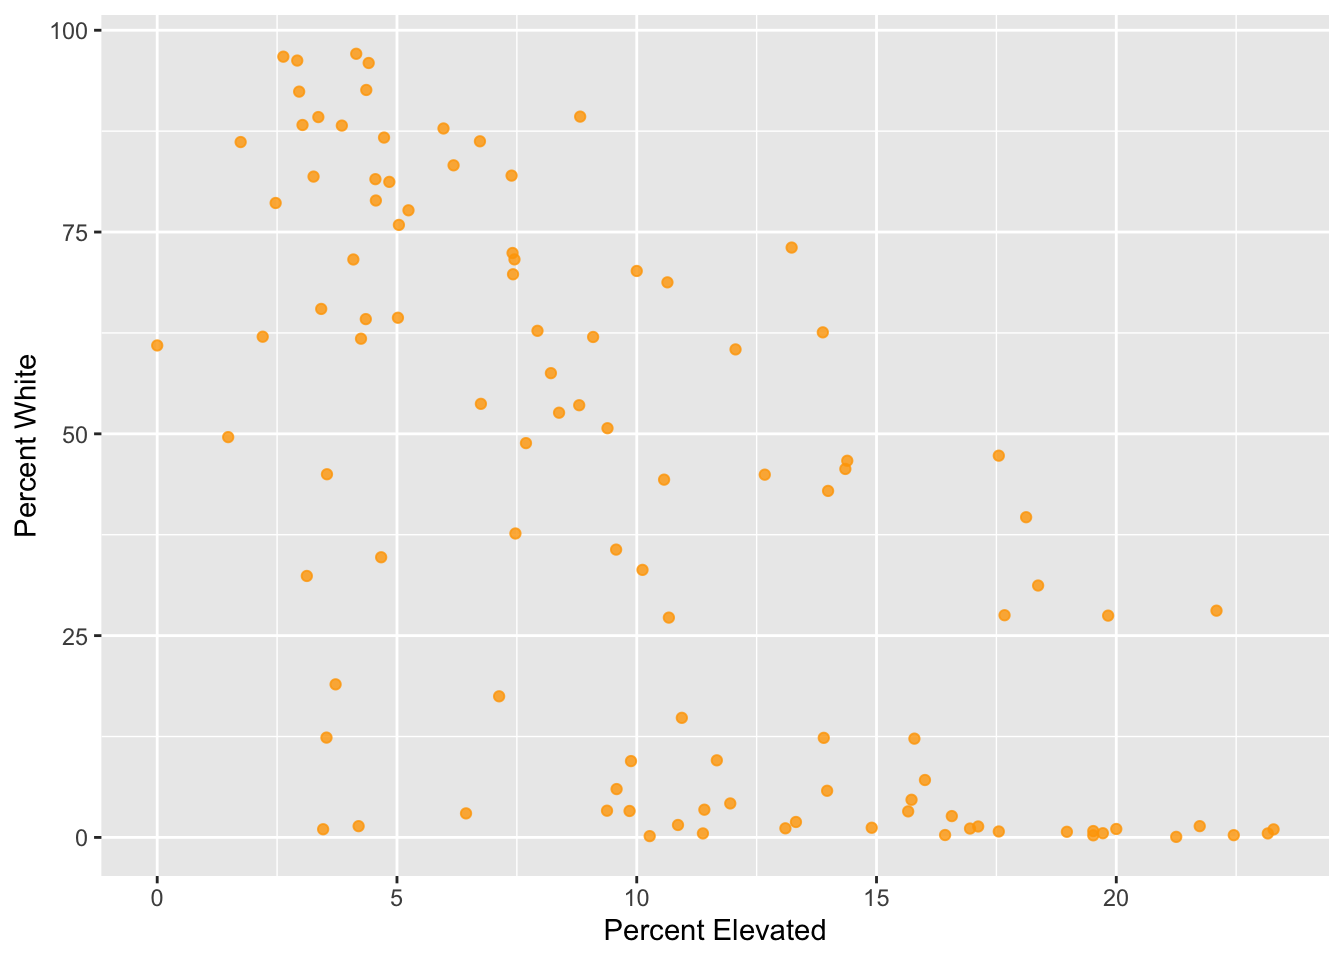
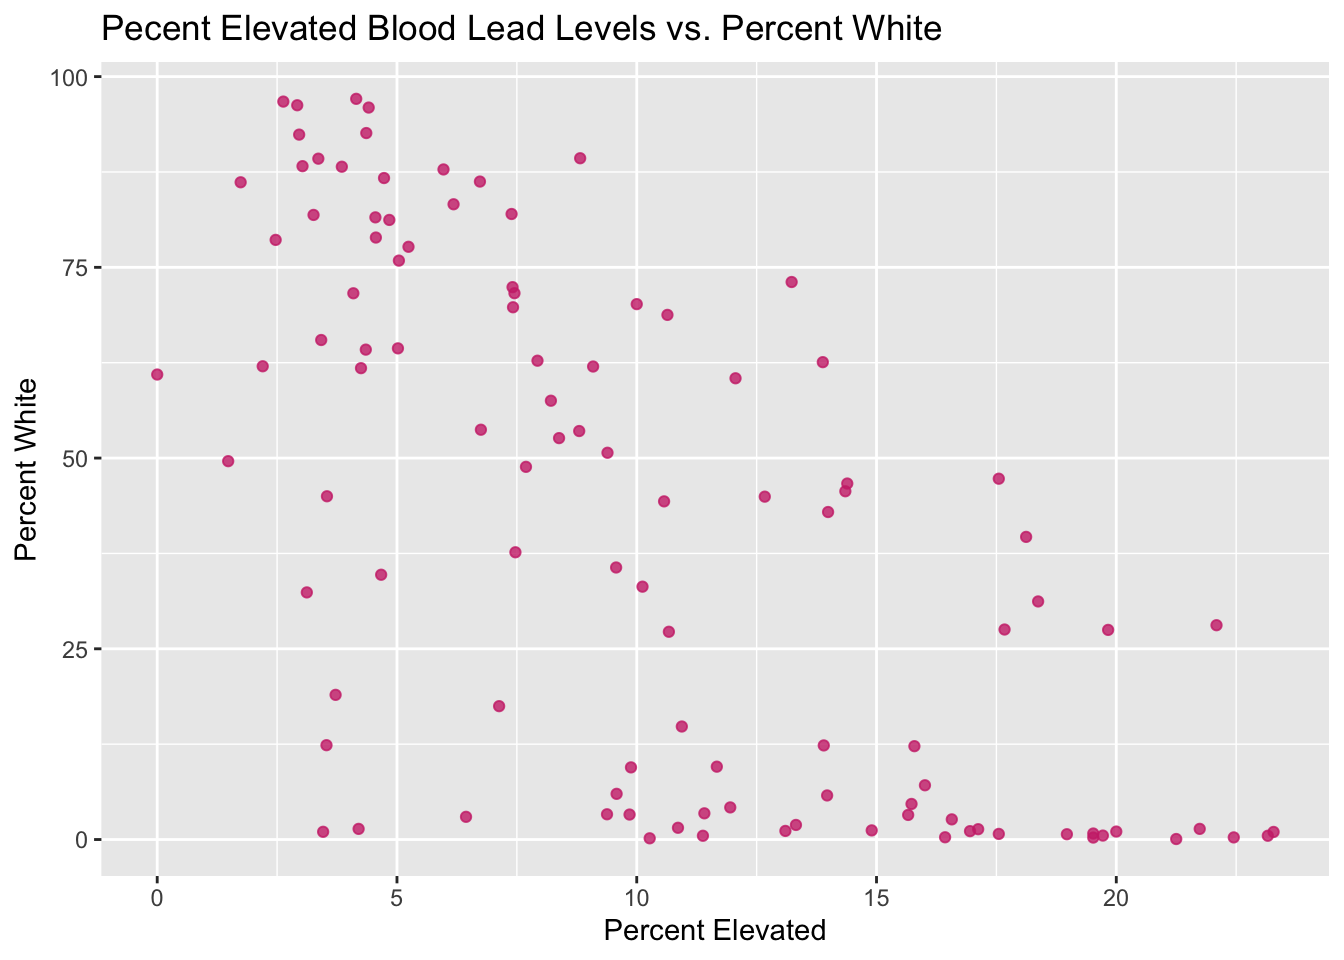
updates to quarto doc

diff --git a/docs/stl_lead_inequity.html b/docs/stl_lead_inequity.html
@@ -466,8 +466,8 @@ dbl (14): geoID, tractCE, countTested, pctElevated, totalPop, totalPop_MOE, ...
 <div class="sourceCode cell-code" id="cb12"><pre class="sourceCode r code-with-copy"><code class="sourceCode r"><span id="cb12-1"><a href="#cb12-1" aria-hidden="true" tabindex="-1"></a>stl_lead_plot <span class="ot">&lt;-</span> <span class="fu">ggplot</span>(<span class="at">data =</span> stl_lead_prop,</span>
 <span id="cb12-2"><a href="#cb12-2" aria-hidden="true" tabindex="-1"></a>                        <span class="fu">aes</span>(<span class="at">x =</span> pct_elevated, </span>
 <span id="cb12-3"><a href="#cb12-3" aria-hidden="true" tabindex="-1"></a>                            <span class="at">y =</span> prop_white)) <span class="sc">+</span></span>
-<span id="cb12-4"><a href="#cb12-4" aria-hidden="true" tabindex="-1"></a>  <span class="fu">geom_point</span>(<span class="at">color =</span> <span class="st">"orange"</span>, <span class="at">alpha =</span> <span class="fl">0.8</span>) <span class="sc">+</span></span>
-<span id="cb12-5"><a href="#cb12-5" aria-hidden="true" tabindex="-1"></a>  <span class="fu">labs</span>(<span class="at">x =</span> <span class="st">"Percent Elevated"</span>, <span class="at">y =</span> <span class="st">"Percent White"</span>)</span>
+<span id="cb12-4"><a href="#cb12-4" aria-hidden="true" tabindex="-1"></a>  <span class="fu">geom_point</span>(<span class="at">color =</span> <span class="st">"violetred3"</span>, <span class="at">alpha =</span> <span class="fl">0.8</span>) <span class="sc">+</span></span>
+<span id="cb12-5"><a href="#cb12-5" aria-hidden="true" tabindex="-1"></a>  <span class="fu">labs</span>(<span class="at">x =</span> <span class="st">"Percent Elevated"</span>, <span class="at">y =</span> <span class="st">"Percent White"</span>, <span class="at">title =</span> <span class="st">"Pecent Elevated Blood Lead Levels vs. Percent White"</span>)</span>
 <span id="cb12-6"><a href="#cb12-6" aria-hidden="true" tabindex="-1"></a></span>
 <span id="cb12-7"><a href="#cb12-7" aria-hidden="true" tabindex="-1"></a>stl_lead_plot</span></code><button title="Copy to Clipboard" class="code-copy-button"><i class="bi"></i></button></pre></div>
 <div class="cell-output-display">
@@ -481,13 +481,14 @@ dbl (14): geoID, tractCE, countTested, pctElevated, totalPop, totalPop_MOE, ...
 <span id="cb13-4"><a href="#cb13-4" aria-hidden="true" tabindex="-1"></a>       <span class="at">width =</span> <span class="dv">6</span>,</span>
 <span id="cb13-5"><a href="#cb13-5" aria-hidden="true" tabindex="-1"></a>       <span class="at">height =</span> <span class="dv">5</span>)</span></code><button title="Copy to Clipboard" class="code-copy-button"><i class="bi"></i></button></pre></div>
 </div>
-<p>As the percent of white people in each census tract decreases, the percent of elevated blood pressure increases.</p>
+<p>As the percent of white people in each census tract decreases, the percent of people with elevated blood lead levels increases.</p>
 <div class="cell">
 <div class="sourceCode cell-code" id="cb14"><pre class="sourceCode r code-with-copy"><code class="sourceCode r"><span id="cb14-1"><a href="#cb14-1" aria-hidden="true" tabindex="-1"></a>stl_lead_histogram <span class="ot">&lt;-</span> <span class="fu">ggplot</span>(<span class="at">data =</span> stl_lead_prop,</span>
 <span id="cb14-2"><a href="#cb14-2" aria-hidden="true" tabindex="-1"></a>       <span class="fu">aes</span>(<span class="at">x =</span> pct_elevated)) <span class="sc">+</span></span>
-<span id="cb14-3"><a href="#cb14-3" aria-hidden="true" tabindex="-1"></a>  <span class="fu">geom_histogram</span>(<span class="at">color =</span> <span class="st">"black"</span>, <span class="at">fill =</span> <span class="st">"blue"</span>)</span>
-<span id="cb14-4"><a href="#cb14-4" aria-hidden="true" tabindex="-1"></a></span>
-<span id="cb14-5"><a href="#cb14-5" aria-hidden="true" tabindex="-1"></a>stl_lead_histogram</span></code><button title="Copy to Clipboard" class="code-copy-button"><i class="bi"></i></button></pre></div>
+<span id="cb14-3"><a href="#cb14-3" aria-hidden="true" tabindex="-1"></a>  <span class="fu">geom_histogram</span>(<span class="at">color =</span> <span class="st">"black"</span>, <span class="at">fill =</span> <span class="st">"lemonchiffon2"</span>) <span class="sc">+</span></span>
+<span id="cb14-4"><a href="#cb14-4" aria-hidden="true" tabindex="-1"></a>  <span class="fu">labs</span>(<span class="at">x =</span> <span class="st">"Percent Elevated Blood Lead"</span>)</span>
+<span id="cb14-5"><a href="#cb14-5" aria-hidden="true" tabindex="-1"></a></span>
+<span id="cb14-6"><a href="#cb14-6" aria-hidden="true" tabindex="-1"></a>stl_lead_histogram</span></code><button title="Copy to Clipboard" class="code-copy-button"><i class="bi"></i></button></pre></div>
 <div class="cell-output cell-output-stderr">
 <pre><code>`stat_bin()` using `bins = 30`. Pick better value with `binwidth`.</code></pre>
 </div>
